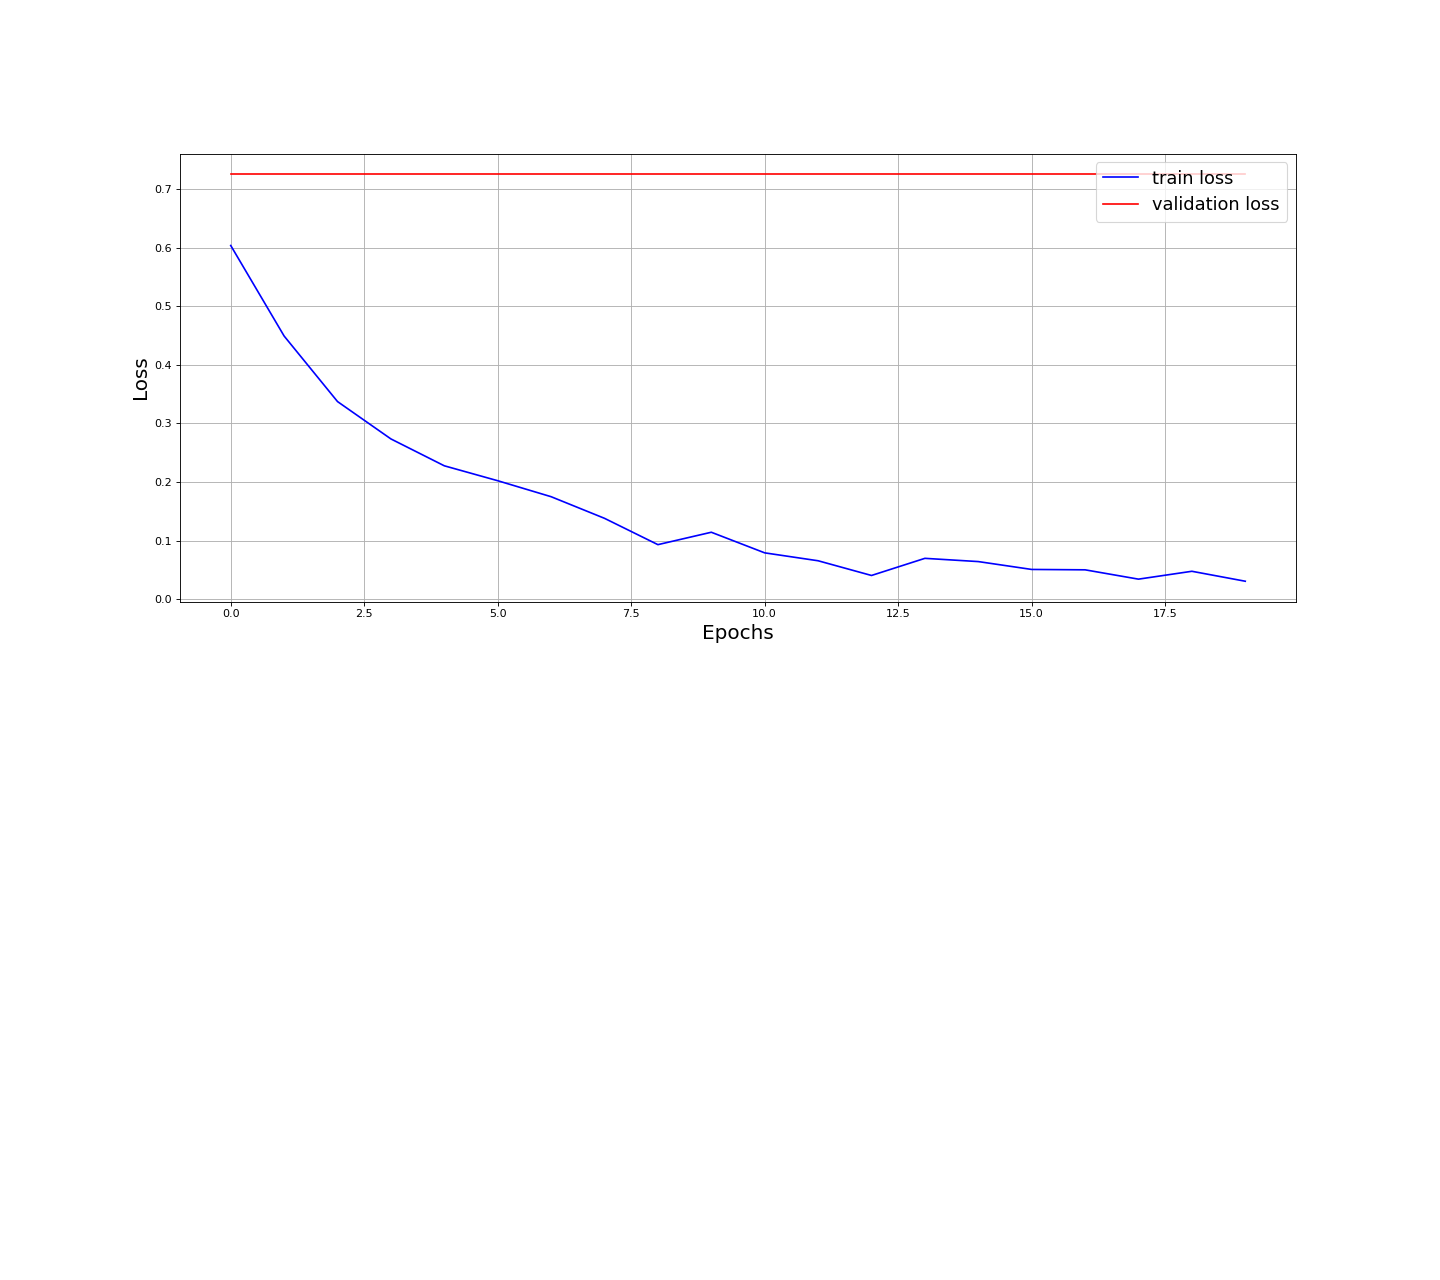
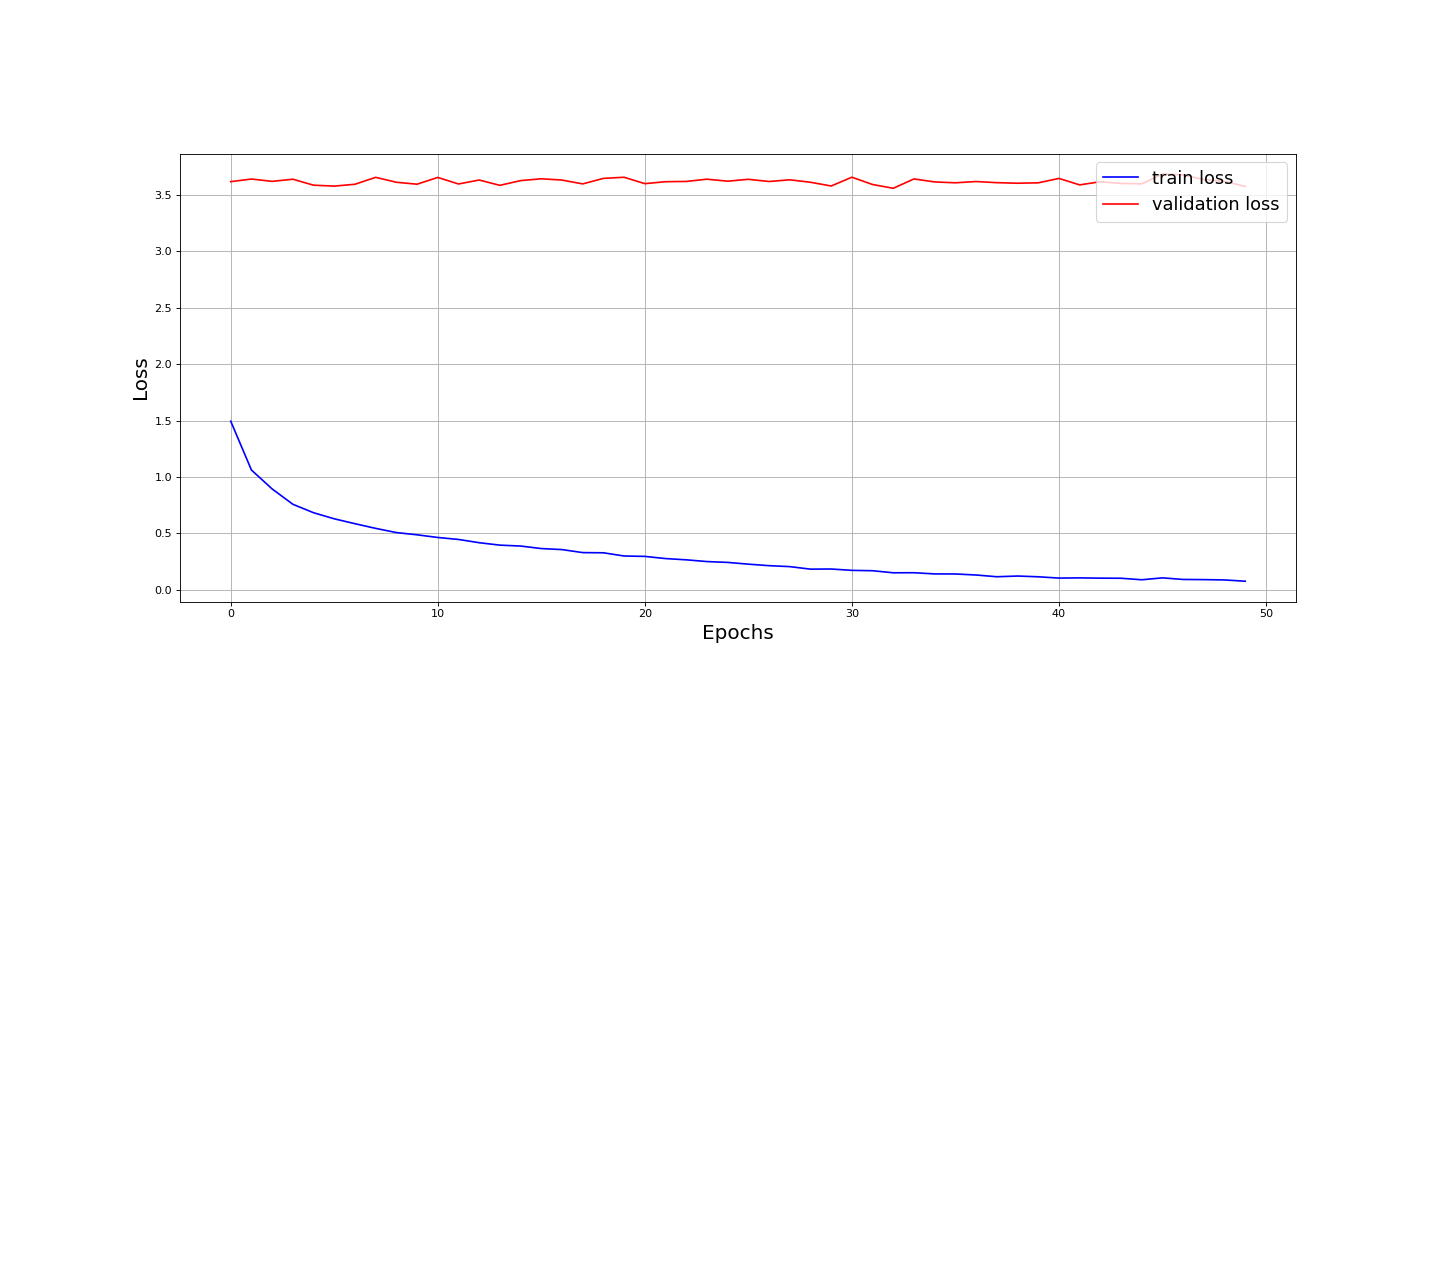
stuff works now! - fixed issues with validation loss and added plotting

diff --git a/load_data.py b/load_data.py
@@ -149,7 +149,6 @@ def run_epoch_train(model, criterion, optimizer, epoch, data_loader):
         correct          += predicted_label.eq(labels).cpu().sum().numpy()
         confusion_matrix += metrics.confusion_matrix(labels.cpu().numpy(), predicted_label.cpu().numpy(), labels=labels_list)
 
-        
         #print(f'Epoch={epoch} | {(idx+1)/len(data_loader)*100:.2f}% | loss = {loss:.5f}')
 
     loss_avg         = total_loss / len(data_loader)
@@ -159,21 +158,6 @@ def run_epoch_train(model, criterion, optimizer, epoch, data_loader):
     return loss_avg, accuracy, confusion_matrix
 
 def train(model, optimizer, criterion, num_epochs, data_loader):
-#    print("---Training---")
-#    model.train()
-#    for epoch in range(num_epochs):
-#        for batch in data_loader:
-#            inputs = batch['image']
-#            labels = batch['label']
-#
-#            optimizer.zero_grad()
-#
-#            inputs, labels = inputs.to(device), labels.to(device)
-#            outputs = model(inputs)
-#            loss = criterion(outputs, labels)
-#            loss.backward()
-#            optimizer.step()
-#        print(f'Epoch {epoch+1}/{num_epochs}, Loss: {loss.item()}')
     correct = 0
     total_samples = 0
     confusion_matrix = np.zeros(shape=(6,6))
@@ -219,24 +203,27 @@ def train(model, optimizer, criterion, num_epochs, data_loader):
 
 
 
-def run_epoch_eval(model, criterion, epoch, data_loader):
-    model.eval()
 
+def run_epoch_val(model, criterion, epoch, data_loader):
+    model.eval()
     total_loss       = 0 
     correct          = 0 
     confusion_matrix = np.zeros(shape=(6,6))
     labels_list      = [0,1,2,3,4,5]
-
+    criterion = torch.nn.CrossEntropyLoss()
     for idx, batch in enumerate(data_loader):
         images = batch['image'].to('cuda') # send data to GPU
         labels = batch['label'].to('cuda') # send data to GPU
         
         with torch.no_grad():
             prediction = model(images)
-            loss        = criterion(prediction, labels)
+            loss = criterion(prediction, labels)
             loss_numpy = loss.detach().cpu().numpy()
             total_loss += loss_numpy
-            
+            #print(loss)
+            #print(loss_numpy)
+            #print("total:", total_loss)
+
         # Update the number of correct classifications and the confusion matrix
         predicted_label  = prediction.max(1, keepdim=True)[1][:,0]
         correct          += predicted_label.eq(labels).cpu().sum().numpy()
@@ -245,8 +232,87 @@ def run_epoch_eval(model, criterion, epoch, data_loader):
     loss_avg         = total_loss / len(data_loader)
     accuracy         = correct / len(data_loader.dataset)
     confusion_matrix = confusion_matrix / len(data_loader.dataset)
-    print("LOSS_AVG:", loss_avg)
+
     return loss_avg, accuracy, confusion_matrix
+
+
+#def run_epoch_eval(model, criterion, epoch, data_loader):
+#    model.eval()
+#
+#    total_loss       = 0 
+#    correct          = 0 
+#    confusion_matrix = np.zeros(shape=(6,6))
+#    labels_list      = [0,1,2,3,4,5]
+#
+#    for idx, batch in enumerate(data_loader):
+#        images = batch['image'].to('cuda') # send data to GPU
+#        labels = batch['label'].to('cuda') # send data to GPU
+#        
+#        with torch.no_grad():
+#            prediction = model(images)
+#            loss        = criterion(prediction, labels)
+#            loss_numpy = loss.detach().cpu().numpy()
+#            total_loss += loss_numpy
+#            
+#        # Update the number of correct classifications and the confusion matrix
+#        predicted_label  = prediction.max(1, keepdim=True)[1][:,0]
+#        correct          += predicted_label.eq(labels).cpu().sum().numpy()
+#        confusion_matrix += metrics.confusion_matrix(labels.cpu().numpy(), predicted_label.cpu().numpy(), labels=labels_list)
+#
+#    loss_avg         = total_loss / len(data_loader)
+#    accuracy         = correct / len(data_loader.dataset)
+#    confusion_matrix = confusion_matrix / len(data_loader.dataset)
+#    print("LOSS_AVG:", loss_avg)
+#    return loss_avg, accuracy, confusion_matrix
+
+
+#def validate(model, criterion, num_epochs, data_loader):
+#    correct = 0
+#    total_samples = 0
+#    confusion_matrix = np.zeros(shape=(6,6))
+#    labels_list= [0,1,2,3,4,5]
+#    config = {'epochs': num_epochs}
+#
+#    val_loss   = np.zeros(shape=config['epochs'])
+#    val_acc    = np.zeros(shape=config['epochs'])
+#    val_confusion_matrix   = np.zeros(shape=(6,6,config['epochs']))
+#
+#    print("---Validating---")
+#    for epoch in range(num_epochs):
+#        #print("epooooo")
+#        val_loss[epoch], val_acc[epoch], val_confusion_matrix[:,:,epoch]     = \
+#                            run_epoch_eval(model, criterion,  epoch, data_loader)
+#        #print("")
+#    
+#    print("Validation losses")
+#    print(val_loss)
+#
+#    print("********")
+#    ind = np.argmax(val_acc)
+#    class_accuracy = val_confusion_matrix[:,:,ind]
+#    classes = [0,1,2,3,4,5]
+#
+#    accuracy_per_class = []
+#    precision_per_class = []
+#
+#    for ii in range(len(classes)):
+#        true_positives = val_confusion_matrix[ii, ii, ind]
+#        false_positives = np.sum(val_confusion_matrix[:, ii, ind]) - true_positives
+#        precision = true_positives / (true_positives + false_positives)
+#        precision_per_class.append(precision)
+#
+#        acc = val_confusion_matrix[ii,ii,ind] / np.sum(val_confusion_matrix[ii,:,ind])
+#        accuracy_per_class.append(acc)
+#
+#        print(f'Class {str(classes[ii]).ljust(5)}: Accuracy={acc*100:.01f}%, Precision={precision*100:.01f}%')
+#    
+#    average_accuracy = np.mean(accuracy_per_class)
+#    average_precision = np.mean(precision_per_class)
+#    print("****Averages****")
+#    print(f'Average Accuracy: {average_accuracy*100:.01f}%')
+#    print(f'Average Precision: {average_precision*100:.01f}%')
+#    return val_loss
+
 
 
 def validate(model, criterion, num_epochs, data_loader):
@@ -256,19 +322,16 @@ def validate(model, criterion, num_epochs, data_loader):
     labels_list= [0,1,2,3,4,5]
     config = {'epochs': num_epochs}
 
-
     val_loss   = np.zeros(shape=config['epochs'])
     val_acc    = np.zeros(shape=config['epochs'])
     val_confusion_matrix   = np.zeros(shape=(6,6,config['epochs']))
-
-
-    print("---Validating---")
+    print("---Validation---")
     
     for epoch in range(num_epochs):
-        #print("epooooo")
+        print(epoch)
         val_loss[epoch], val_acc[epoch], val_confusion_matrix[:,:,epoch]     = \
-                            run_epoch_eval(model, criterion,  epoch, data_loader)
-        #print("")
+                            run_epoch_val(model, criterion, epoch, data_loader)
+        print()
     
     print("Validation losses")
     print(val_loss)
@@ -313,26 +376,132 @@ def plot_losses(val_loss, train_loss, save_path):
     plt.savefig(save_path)  
     plt.close()
 
-    
 
-def train_resnet18_model(device, train_loader, val_loader):
+
+def run_epoch(model, epoch, data_loader, optimizer, loss_fn, is_training):
+    if is_training==True: 
+        model.train()
+    else:
+        model.eval()
+
+    total_loss       = 0 
+    correct          = 0 
+    confusion_matrix = np.zeros(shape=(6,6))
+    labels_list      = [0,1,2,3,4,5]
+
+    for batch_idx, data_batch in enumerate(data_loader):
+        images = data_batch['image'].to('cuda') # send data to GPU
+        labels = data_batch['label'].to('cuda') # send data to GPU
+
+        if not is_training:
+            with torch.no_grad():
+                prediction = model(images)
+                loss        = loss_fn(prediction, labels)
+                total_loss += loss.item()
+                print("EPOCH:", epoch , "batchid:", batch_idx, "loss:", loss)    
+            
+        elif is_training:
+            prediction = model(images)
+            loss        = loss_fn(prediction, labels)
+            total_loss += loss.item()
+
+            optimizer.zero_grad()
+            loss.backward()
+            optimizer.step()
+
+        # Update the number of correct classifications and the confusion matrix
+        predicted_label  = prediction.max(1, keepdim=True)[1][:,0]
+        correct          += predicted_label.eq(labels).cpu().sum().numpy()
+        confusion_matrix += metrics.confusion_matrix(labels.cpu().numpy(), predicted_label.cpu().numpy(), labels=labels_list)
+
+        # Print statistics
+        #batchSize = len(labels)
+        
+        #print(f'Epoch={epoch} | loss = {loss:.5f}')
+
+    loss_avg         = total_loss / len(data_loader)
+    accuracy         = correct / len(data_loader.dataset)
+    confusion_matrix = confusion_matrix / len(data_loader.dataset)
+
+    return loss_avg, accuracy, confusion_matrix
+
+
+def run_the_training(model, epochs, optimizer, criterion, train_loader, val_loader):
+    train_loss = np.zeros(shape=epochs)
+    train_acc  = np.zeros(shape=epochs)
+    val_loss   = np.zeros(shape=epochs)
+    val_acc    = np.zeros(shape=epochs)
+    train_confusion_matrix = np.zeros(shape=(6,6,epochs))
+    val_confusion_matrix   = np.zeros(shape=(6,6,epochs))
+
+    for epoch in range(epochs):
+        train_loss[epoch], train_acc[epoch], train_confusion_matrix[:,:,epoch] = \
+                                run_epoch(model, epoch, train_loader, optimizer, criterion, is_training=True)
+
+        val_loss[epoch], val_acc[epoch], val_confusion_matrix[:,:,epoch]     = \
+                                run_epoch(model, epoch, val_loader, optimizer,criterion,  is_training=False)
+    
+    return train_loss, train_acc, train_confusion_matrix, val_loss, val_acc, val_confusion_matrix 
+
+def plot_me(train_loss, train_acc, val_loss,val_acc, save_path):
+    plt.figure(figsize=(18, 16), dpi= 80, facecolor='w', edgecolor='k')
+    ax = plt.subplot(2, 1, 1)
+    # plt.subplots_adjust(hspace=2)
+    ax.plot(train_loss, 'b', label='train loss')
+    ax.plot(val_loss, 'r', label='validation loss')
+    ax.grid()
+    plt.ylabel('Loss', fontsize=18)
+    plt.xlabel('Epochs', fontsize=18)
+    ax.legend(loc='upper right', fontsize=16)
+
+    ax = plt.subplot(2, 1, 2)
+    plt.subplots_adjust(hspace=0.4)
+    ax.plot(train_acc, 'b', label='train accuracy')
+    ax.plot(val_acc, 'r', label='validation accuracy')
+    ax.grid()
+    plt.ylabel('Accuracy', fontsize=18)
+    plt.xlabel('Epochs', fontsize=18)
+    val_acc_max = np.max(val_acc)
+    val_acc_max_ind = np.argmax(val_acc)
+    plt.axvline(x=val_acc_max_ind, color='g', linestyle='--', label='Highest validation accuracy')
+    plt.title('Highest validation accuracy = %0.1f %%' % (val_acc_max*100), fontsize=16)
+    ax.legend(loc='lower right', fontsize=16)
+
+    plt.savefig(save_path)  
+    plt.close()
+
+def train_resnet18_model(device, num_epochs, train_loader, val_loader):
     torch.manual_seed(42)
     torch.cuda.manual_seed_all(42)
 
-    model = models.resnet18(pretrained=True)
+    model = models.resnet50(pretrained=True)
     num_classes = 6 #len(dataset.class_to_idx)
     model.fc = torch.nn.Linear(model.fc.in_features, num_classes)
+
+    #dropout_prob = 0.2  # You can adjust this probability
+    #model.fc = torch.nn.Sequential(
+    #    torch.nn.Dropout(p=dropout_prob),  # Dropout layer
+    #    torch.nn.Linear(model.fc.in_features, num_classes)
+    #)
     
     model = model.to(device)  # Move the model to GPU or CPU
 
     criterion = torch.nn.CrossEntropyLoss()
-    optimizer = torch.optim.Adam(model.parameters(), lr=0.001)
-    num_epochs = 20
+    #optimizer = torch.optim.Adam(model.parameters(), lr=0.001)
+    optimizer = torch.optim.SGD(model.parameters(), lr=0.00001, momentum=0.9)
 
-    train_losses = train(model, optimizer, criterion, num_epochs, train_loader)
+
+    train_loss, train_acc, train_confusion_matrix, val_loss, val_acc, val_confusion_matrix = run_the_training(model, num_epochs, optimizer, criterion, train_loader, val_loader)
+    print("Training Losses")
+    print(train_loss)
+    print("------------")
+
     print()
-    val_loss = validate(model, criterion, num_epochs, val_loader)
-    plot_losses(val_loss, train_losses, "validation_loses.png")
+    print("Validation Losses")
+    print(val_loss)
+    print("------------")
+
+    plot_me(train_loss, train_acc,val_loss, val_acc,"Validation_loses.png")
 
 
 def create_datasets_and_loaders(root_path, transform=None, seed=50):
@@ -342,11 +511,11 @@ def create_datasets_and_loaders(root_path, transform=None, seed=50):
     
     # Training dataset and dataloader
     train_dataset = ImageDataset(root_dir=root_path, train=True, transform = transform)
-    train_loader = torch.utils.data.DataLoader(train_dataset, batch_size=32, shuffle=False, num_workers=4,worker_init_fn=worker_init_fn)
+    train_loader = torch.utils.data.DataLoader(train_dataset, batch_size=16, shuffle=True, num_workers=2,worker_init_fn=worker_init_fn)
 
     # Validation dataset and dataloader
     val_dataset = ImageDataset(root_dir=root_path, train=False, transform = transform)
-    val_loader = torch.utils.data.DataLoader(val_dataset, batch_size=32, shuffle=False, num_workers=4, worker_init_fn=worker_init_fn)
+    val_loader = torch.utils.data.DataLoader(val_dataset, batch_size=16, shuffle=False, num_workers=2, worker_init_fn=worker_init_fn)
 
     return train_loader, val_loader
 
@@ -364,47 +533,14 @@ if __name__ == "__main__":
     #    transforms.Normalize(mean=[0.485, 0.456, 0.406], std=[0.229, 0.224, 0.225]),
     #])
 
-    # a bit better
-    #transform = transforms.Compose([
-    #    transforms.Resize((224, 224)),
-    #    transforms.RandomHorizontalFlip(),  # Randomly flip the image horizontally
-    #    transforms.ToTensor(),
-    #    transforms.Normalize(mean=[0.485, 0.456, 0.406], std=[0.229, 0.224, 0.225]),
-    #])
-
-    transform=transforms.Compose([
-        transforms.Resize((224, 224)),
-        transforms.RandomVerticalFlip(),
+    transform = transforms.Compose([
+        transforms.Resize(224),
+        transforms.CenterCrop(224),
         transforms.ToTensor(),
-        transforms.Normalize(mean=[0.485, 0.456, 0.406], std=[0.229, 0.224, 0.225]),
+        transforms.Normalize([0.485, 0.456, 0.406], [0.229, 0.224, 0.225])
     ])
-#
-#
-    #transform = transforms.Compose([
-    #    transforms.Resize((224, 224)),
-    #    transforms.GaussianBlur(kernel_size=3),
-    #    transforms.ToTensor(),
-    #    transforms.Normalize(mean=[0.485, 0.456, 0.406], std=[0.229, 0.224, 0.225]),
-    #])
-#
-    #transforms.Compose([
-    #    transforms.Resize((224, 224)),
-    #    transforms.RandomErasing(p=0.5, scale=(0.02, 0.33), ratio=(0.3, 3.3)),
-    #    transforms.ToTensor(),
-    #    transforms.Normalize(mean=[0.485, 0.456, 0.406], std=[0.229, 0.224, 0.225]),
-    #])
-
-    #trash
-    #transform = transforms.Compose([
-    #    transforms.RandomResizedCrop(224),
-    #    transforms.RandomHorizontalFlip(),
-    #    transforms.RandomRotation(degrees=30),
-    #    transforms.ColorJitter(brightness=0.2, contrast=0.2, saturation=0.2, hue=0.2),
-    #    transforms.ToTensor(),
-    #    transforms.Normalize(mean=[0.485, 0.456, 0.406], std=[0.229, 0.224, 0.225]),
-    #])
-
-
+    
+    num_epochs = 30
     seed = 42
     torch.manual_seed(seed)
     torch.cuda.manual_seed_all(seed)
@@ -413,4 +549,4 @@ if __name__ == "__main__":
     train_loader, val_loader = create_datasets_and_loaders(root_path=root_path, transform=transform, seed=seed)
 
     #training and validation
-    train_resnet18_model(device, train_loader, val_loader)
+    train_resnet18_model(device, num_epochs, train_loader, val_loader)
